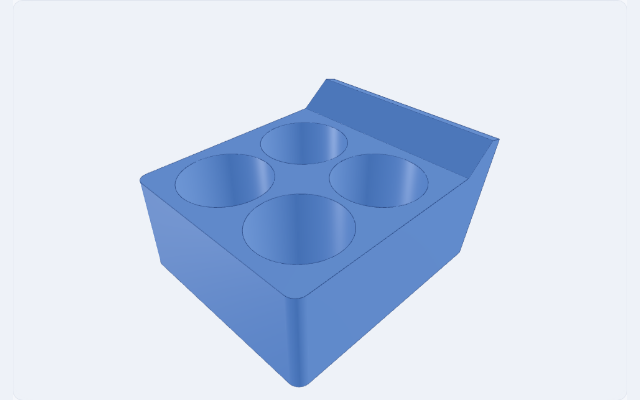
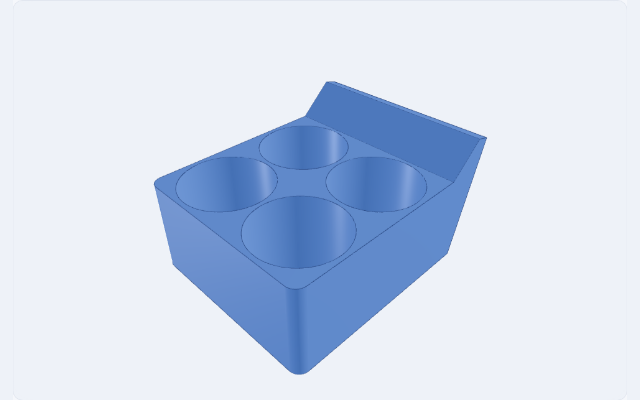
feat: set organizer spacing defaults to 1mm

diff --git a/tests/unit/opengrid-openconnect-organizer-contract.test.ts b/tests/unit/opengrid-openconnect-organizer-contract.test.ts
@@ -31,13 +31,13 @@ describe('OpenGrid OpenConnect organizer contract', () => {
       holeCountX: 2,
       holeCountY: 2,
       holeSpacingMode: 'linked',
-      holeSpacingX: 2,
-      holeSpacingY: 2,
+      holeSpacingX: 1,
+      holeSpacingY: 1,
       holeShape: 'circle',
       holeDiameter: 20,
       holeDepth: 20,
-      bottomThickness: 2,
-      edgeThickness: 3,
+      bottomThickness: 1,
+      edgeThickness: 1,
       tiltAngle: 15,
     })
     expect(validateOpenGridOpenConnectOrganizerParameters(value)).toEqual({
@@ -94,7 +94,7 @@ describe('OpenGrid OpenConnect organizer contract', () => {
       [12, 7],
     ])
     expect(layout.requiredSpan).toEqual({ x: 34, y: 24 })
-    expect(layout.bodyDepth).toBe(30)
+    expect(layout.bodyDepth).toBe(26)
   })
 
   it('uses the selected edge on local X/Y while preserving the 28 mm width minimum', () => {
@@ -116,14 +116,32 @@ describe('OpenGrid OpenConnect organizer contract', () => {
     expect((layout.bodyDepth - layout.requiredSpan.y) / 2).toBeCloseTo(0.4, 10)
   })
 
-  it('uses R2.5 front corners and preserves thinner selected edges', () => {
+  it('uses R2.5 front corners and safely clamps thinner selected edges', () => {
     const standard = openGridOpenConnectOrganizerLayoutFor(parameters())
     const thinEdge = openGridOpenConnectOrganizerLayoutFor(
       parameters({ edgeThickness: 0.4 }),
     )
 
     expect(standard.frontCornerRadius).toBe(2.5)
-    expect(thinEdge.frontCornerRadius).toBe(0.4)
+    expect(thinEdge.frontCornerRadius).toBeCloseTo(0.4 * (2 + Math.SQRT2), 10)
+  })
+
+  it('keeps a non-degenerate straight side before shallow-body rear corners', () => {
+    const layout = openGridOpenConnectOrganizerLayoutFor(
+      parameters({
+        holeCountX: 1,
+        holeCountY: 1,
+        holeShape: 'square',
+        holeDiameter: 1,
+        holeDepth: 1,
+        bottomThickness: 1,
+        edgeThickness: 0.72,
+        tiltAngle: 0,
+      }),
+    )
+
+    expect(layout.bodyDepth).toBe(2.44)
+    expect(layout.bodyDepth - layout.frontCornerRadius).toBeCloseTo(0.05, 10)
   })
 
   it('keeps the default body continuous with one centered, top-aligned socket', () => {
@@ -131,11 +149,12 @@ describe('OpenGrid OpenConnect organizer contract', () => {
     const layout = openGridOpenConnectOrganizerLayoutFor(value)
     const configuration = OPENGRID_OPENCONNECT_ORGANIZER_CONFIGURATION
 
-    expect(layout.bodyThickness).toBe(22)
-    expect(layout.bodyWidth).toBe(48)
+    expect(layout.bodyThickness).toBe(21)
+    expect(layout.bodyWidth).toBe(43)
+    expect(layout.bodyDepth).toBe(43)
     expect(layout.connectorColumns).toBe(1)
     expect(layout.connectorRows).toBe(1)
-    expect(layout.rearInterfaceWidth).toBe(48)
+    expect(layout.rearInterfaceWidth).toBe(43)
     expect(layout.rearInterfaceHeight).toBe(configuration.gridPitch)
     expect(openGridOpenConnectOrganizerSlotOriginsFor(value)).toEqual([
       [0, configuration.rearThickness, 14],

diff --git a/src/cad-contract/units/opengrid-openconnect-organizer.ts b/src/cad-contract/units/opengrid-openconnect-organizer.ts
@@ -82,6 +82,7 @@ export const OPENGRID_OPENCONNECT_ORGANIZER_CONFIGURATION = {
   gridPitch: OPENGRID_GRID_CONFIGURATION.fullPitch,
   rearThickness: 3.2,
   frontCornerRadius: 2.5,
+  frontCornerRearStraightLength: 0.05,
   fusionOverlap: 0.05,
   minimumInterfaceSeparation: 0.5,
   workspaceMaxDimension: 500,
@@ -103,12 +104,12 @@ export const OPENGRID_OPENCONNECT_ORGANIZER_CONFIGURATION = {
   defaultHoleCountX: 2,
   defaultHoleCountY: 2,
   defaultHoleSpacingMode: 'linked' as OpenGridOpenConnectOrganizerSpacingMode,
-  defaultHoleSpacing: 2,
+  defaultHoleSpacing: 1,
   defaultHoleShape: 'circle' as OpenGridOpenConnectOrganizerShape,
   defaultHoleDiameter: 20,
   defaultHoleDepth: 20,
-  defaultBottomThickness: 2,
-  defaultEdgeThickness: 3,
+  defaultBottomThickness: 1,
+  defaultEdgeThickness: 1,
   defaultTiltAngle: 15,
 } as const
 
@@ -158,6 +159,7 @@ const POLYGON_SIDES: Record<
 }
 
 const VALIDATION_TOLERANCE = 1e-9
+const SQUARE_CORNER_CLEARANCE_FACTOR = 2 + Math.SQRT2
 
 function isRecord(value: unknown): value is Record<string, unknown> {
   return typeof value === 'object' && value !== null && !Array.isArray(value)
@@ -300,9 +302,14 @@ function layoutForUnchecked(
     requiredSpan.x + 2 * parameters.edgeThickness,
   )
   const bodyDepth = requiredSpan.y + 2 * parameters.edgeThickness
+  const maximumSafeFrontCornerRadius =
+    parameters.edgeThickness * SQUARE_CORNER_CLEARANCE_FACTOR
+  const maximumFrontCornerRadiusForBody =
+    bodyDepth - configuration.frontCornerRearStraightLength
   const frontCornerRadius = Math.min(
     configuration.frontCornerRadius,
-    parameters.edgeThickness,
+    maximumSafeFrontCornerRadius,
+    maximumFrontCornerRadiusForBody,
   )
   const rearInterfaceWidth = bodyWidth
   const rearInterfaceHeight = Math.max(configuration.gridPitch, bodyThickness)

diff --git a/tests/e2e/opengrid-openconnect-organizer.spec.ts b/tests/e2e/opengrid-openconnect-organizer.spec.ts
@@ -50,7 +50,7 @@ test('OpenConnect organizer is Wall-only and starts from the canonical snapshot'
   await expect(page.getByRole('radio', { name: '連動' })).toBeChecked()
   await expect(
     page.getByRole('textbox', { name: '孔外圍間距（X）' }),
-  ).toHaveValue('2')
+  ).toHaveValue('1')
   await expect(
     page.getByRole('textbox', { name: '孔外圍間距（Y）' }),
   ).toHaveCount(0)
@@ -63,10 +63,10 @@ test('OpenConnect organizer is Wall-only and starts from the canonical snapshot'
   )
   await expect(
     page.getByRole('textbox', { name: '底部加厚（Z）' }),
-  ).toHaveValue('2')
+  ).toHaveValue('1')
   await expect(
     page.getByRole('textbox', { name: '孔洞至外緣厚度（X/Y）' }),
-  ).toHaveValue('3')
+  ).toHaveValue('1')
   await expect(
     page.getByTestId('opengrid-openconnect-organizer-thickness-help'),
   ).toContainText('底厚設為 0 mm 時孔洞會貫穿底部')

diff --git a/tests/worker/opengrid-openconnect-organizer.integration.test.ts b/tests/worker/opengrid-openconnect-organizer.integration.test.ts
@@ -419,6 +419,31 @@ describe('OpenGrid OpenConnect organizer CAD kernel integration', () => {
     }
   }, 180_000)
 
+  it('keeps a shallow legal body valid without a degenerate front fillet', async () => {
+    const value = parameters({
+      holeCountX: 1,
+      holeCountY: 1,
+      holeShape: 'square',
+      holeDiameter: 1,
+      holeDepth: 1,
+      bottomThickness: 1,
+      edgeThickness: 0.72,
+      tiltAngle: 0,
+    })
+    const { shape, slot, quality } = await buildAndInspect(value)
+    try {
+      expect(quality).toMatchObject({
+        passed: true,
+        failures: [],
+        validBRep: true,
+        solidCount: 1,
+      })
+    } finally {
+      deleteShape(shape)
+      deleteShape(slot)
+    }
+  }, 180_000)
+
   it('rejects invalid geometry before loading the shared slot asset', async () => {
     let slotLoads = 0
     await expect(

diff --git a/openspec/specs/opengrid-openconnect-organizer/spec.md b/openspec/specs/opengrid-openconnect-organizer/spec.md
@@ -46,9 +46,9 @@ hole depth MUST be finite from 1 through 500 mm, and bottom thickness MUST be
 finite from 0 through 100 mm. `edgeThickness` MUST be finite from 0.4 through
 100 mm. `tiltAngle` MUST be a finite value from 0 through 45 degrees on
 whole-degree steps. The defaults MUST be `{ holeCountX: 2,
-holeCountY: 2, holeSpacingMode: 'linked', holeSpacingX: 2, holeSpacingY: 2,
-holeShape: 'circle', holeDiameter: 20, holeDepth: 20, bottomThickness: 2,
-edgeThickness: 3, tiltAngle: 15 }`. In linked spacing mode the two canonical
+holeCountY: 2, holeSpacingMode: 'linked', holeSpacingX: 1, holeSpacingY: 1,
+holeShape: 'circle', holeDiameter: 20, holeDepth: 20, bottomThickness: 1,
+edgeThickness: 1, tiltAngle: 15 }`. In linked spacing mode the two canonical
 spacing values MUST be equal; in independent mode they MAY differ.
 
 The component MUST reject missing or unknown fields, unsupported enum values,
@@ -126,10 +126,11 @@ MUST be at least `edgeThickness`. Any extra width required by the 28 mm minimum
 MUST be divided equally between the two X edges.
 
 The two front-facing vertical outer corners, farthest from the wall interface,
-MUST use a target radius of 2.5 mm. When `edgeThickness` is below 2.5 mm, the
-actual radius MUST equal `edgeThickness` so the rounded corner cannot consume
-the selected cavity-to-edge allowance. This rounding MUST NOT be applied to the
-two rear vertical body corners.
+MUST use a target radius of 2.5 mm. The actual radius MUST be the smallest of
+2.5 mm, `edgeThickness * (2 + sqrt(2))`, and `bodyDepth - 0.05 mm`. These
+limits MUST keep the worst-case square cavity envelope inside the rounded body
+and preserve at least 0.05 mm of straight side before the rear corner. This
+rounding MUST NOT be applied to the two rear vertical body corners.
 
 #### Scenario: Generate circular cavities
 
@@ -156,16 +157,24 @@ two rear vertical body corners.
 
 #### Scenario: Round the two front vertical corners
 
-- **WHEN** the organizer is generated with `edgeThickness` of at least 2.5 mm
+- **WHEN** the organizer is generated with the default `edgeThickness=1 mm`
 - **THEN** its two front-facing vertical outer corners MUST each have a 2.5 mm
   radius
 - **AND** the rear vertical body corners MUST remain unrounded
 
 #### Scenario: Preserve a thinner selected edge
 
-- **WHEN** `edgeThickness` is below 2.5 mm
-- **THEN** each front-corner radius MUST be limited to `edgeThickness`
+- **WHEN** the requested R2.5 corner would violate the selected edge allowance
+- **THEN** each front-corner radius MUST be limited to
+  `edgeThickness * (2 + sqrt(2))`
 - **AND** the accepted thin-edge layout MUST remain a valid connected solid
+
+#### Scenario: Preserve a shallow-body rear edge
+
+- **WHEN** the target radius would leave less than 0.05 mm of straight body
+  side before a rear corner
+- **THEN** each front-corner radius MUST be limited to `bodyDepth - 0.05 mm`
+- **AND** the accepted shallow body MUST remain a valid connected solid
 
 #### Scenario: Generate regular polygon cavities
 
